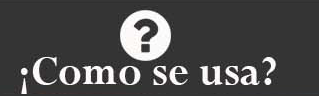
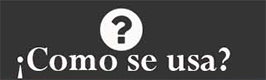
arreglos del index

diff --git a/Views/stylesSheet/gstyle.css b/Views/stylesSheet/gstyle.css
@@ -21,7 +21,7 @@ header{
 }
 #dvMenu{
 	width: 97%;
-	height: 130px;
+	height: 90px;
 	background: #343434;
 	overflow: hidden;
 	vertical-align: top;
@@ -32,16 +32,13 @@ header{
 #dvMenu li{
 	display: inline-block;
 	width: 25%;
-	height: 130px;
+	height: 90px;
 	float: left;
 	margin-left: 3px;
 	cursor: pointer;
 }
 
-#code{
-	margin-left: -40px !important;
-	overflow: hidden;
-}
+
 
 #dvContel{
 	display: inline-block;
@@ -54,25 +51,25 @@ header{
 	overflow: hidden;
 	background: url(../Imagen/inicio.png) no-repeat;
 	width: 25%;
-	height: 130px;
+	height: 80px;
 	overflow: hidden;
 }
 
 #liwor{
 	background: url(../Imagen/quienes_somos.png) no-repeat;
 	width: 25%;
-	height: 130px;
+	height: 80px;
 }
 #licontact{
 	background: url(../Imagen/contactenos.png) no-repeat;
 	width: 25%;
-	height: 130px;
-	margin-top: 10px;
+	height: 80px;
+	margin-top: 5px;
 }
 #liUsa{
 	background: url(../Imagen/comousa.png) no-repeat;
 	width: 25%;
-	height: 130px;
+	height: 80px;
 }
 
 #invitLogin{

diff --git a/Views/stylesSheet/Slider.css b/Views/stylesSheet/Slider.css
@@ -1,0 +1,35 @@
+@import url(http://fonts.googleapis.com/css?family=Istok+Web);
+@keyframes slidy {
+0% { left: 0%; }
+20% { left: 0%; }
+25% { left: -100%; }
+45% { left: -100%; }
+50% { left: -200%; }
+70% { left: -200%; }
+75% { left: -300%; }
+95% { left: -300%; }
+100% { left: -400%; }
+}
+body, figure { 
+  margin: 0; background: #101010;
+  font-family: Istok Web, sans-serif;
+  font-weight: 100;
+}
+div#captioned-gallery { 
+  width: 100%; overflow: hidden; 
+}
+figure.slider { 
+  position: relative; width: 500%;
+  font-size: 0; animation: 30s slidy infinite; 
+}
+figure.slider figure { 
+  width: 20%; height: auto;
+  display: inline-block;  position: inherit; 
+}
+figure.slider img { width: 100%; height: auto; overflow: hidden; vertical-align: top; }
+figure.slider figure figcaption { 
+  position: absolute; bottom: 0;
+  background: rgba(0,0,0,0.4);
+  color: #fff; width: 100%;
+  font-size: 2rem; padding: .6rem; 
+}

diff --git a/Views/stylesSheet/mindex.css b/Views/stylesSheet/mindex.css
@@ -34,21 +34,9 @@
 	background: url(../Imagen/diseno/2.png);
 }
 
-#e64Destacado{
-	width: 99%;
-	height: 63px;
-	background: #e8641b;
-	font-size: 40px;
-	padding-left: 10px;
-	padding-top: 5px;
-	color: #fff;
-}
 
-#e64SliderVideo{
-	width: 100%;
-	height: 200px;
-	background: url(../Imagen/diseno/3.png);
-}
+
+
 
 #e63JueDestac{
 	width: 99%;

diff --git a/Views/index.php b/Views/index.php
@@ -4,13 +4,39 @@
 
 	<link rel="stylesheet" type="text/css" href="stylesSheet/gstyle.css"/>
 	<link rel="stylesheet" type="text/css" href="stylesSheet/mindex.css"/>
+	<link rel="stylesheet" type="text/css" href="stylesSheet/Slider.css"/>
 	<script type="text/javascript" src="hh"></script>
 </head>
 <body>
 
 <div id="dv_main">
 	<?php require_once("header.php"); ?>
-	<div id="dvSlider"></div>
+	<div id="dvSlider">
+		<div id="captioned-gallery">
+			<figure class="slider">
+				<figure>
+					<img src="Imagen/2S.jpg" alt>
+					<figcaption>Hobbiton, New Zealand</figcaption>
+				</figure>
+				<figure>
+					<img src="Imagen/1S.jpg" alt>
+					<figcaption>Wanaka, New Zealand</figcaption>
+				</figure>
+				<figure>
+					<img src="Imagen/2S.jpg" alt>
+					<figcaption>Hobbiton, New Zealand</figcaption>
+				</figure>
+				<figure>
+					<img src="https://s3-us-west-2.amazonaws.com/s.cdpn.io/4273/bryce-canyon-utah.jpg" alt>
+					<figcaption>Bryce Canyon, Utah, United States</figcaption>
+				</figure>
+				<figure>
+					<img src="https://s3-us-west-2.amazonaws.com/s.cdpn.io/4273/hobbiton-lake.jpg" alt>
+					<figcaption>Hobbiton, New Zealand</figcaption>
+				</figure>
+			</figure>
+		</div>
+	</div>
 	<div id="e64Video">
 		<iframe width="950" height="400" src="https://www.youtube.com/embed/pRQk4K-UbaU" frameborder="0" allowfullscreen></iframe>
 	</div>
@@ -19,8 +45,8 @@
 		<div id="e64Public1"></div>
 		<div id="e64Public2"></div>
 	</div>
-<div id="e64Destacado">Destacados</div>
-<div id="e64SliderVideo">Slider videos</div>
+
+
 <div id="e63JueDestac">VideosJuegos mas descatados</div>
 <ul id="ulNoticJue">
 	<li></li>

diff --git a/Controller/ValidarUsu.Controller.php b/Controller/ValidarUsu.Controller.php
@@ -3,18 +3,28 @@ include_once("../Model/conexion.php");
 include_once("../Model/validarUsu.class.php");
 
 $accion= $_POST["btnusu"];
-echo "aaaa";
+
 switch ($accion) {
 	case 'ingresoUsu':
-		echo "pasa";
+
 		$usuario=$_POST["txtCode"];
 		$clave=$_POST["txtName"];
-echo $clave;
+
 		try {
 			$result=Gestionar_Usu::validarUsu($usuario,$clave);
+			if ($result!="") {
 			
 			$_SESSION['usu_nom'] =$result['usu_nom']; 
-			//header("location:../Views/userperfil.php");
+			
+			header("location:../Views/userperfil.php");
+		
+			}else{
+				echo "<script languaje= 'Javascript'>alert('Datos invalidos')</script>";
+			exit();
+				header("location:../Views/index.php");
+			}
+		
+
 		} catch (Exception $e) {
 			echo $e;
 		}

diff --git a/Model/validarUsu.class.php b/Model/validarUsu.class.php
@@ -14,12 +14,13 @@ class Gestionar_Usu
 
 		$query= $pdo->prepare($sql);
 		$query->execute(array($usuario,$clave));
-echo $sql;
+
 		$result=$query->fetch(PDO::FETCH_BOTH);
+		
 
 		ConexionBD::DesconectarBD();
 
-		return $result;
+			return $result;
 	}
 }
 
